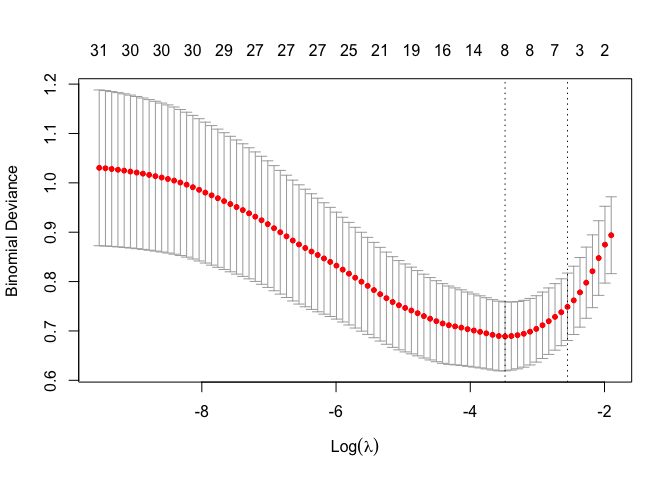
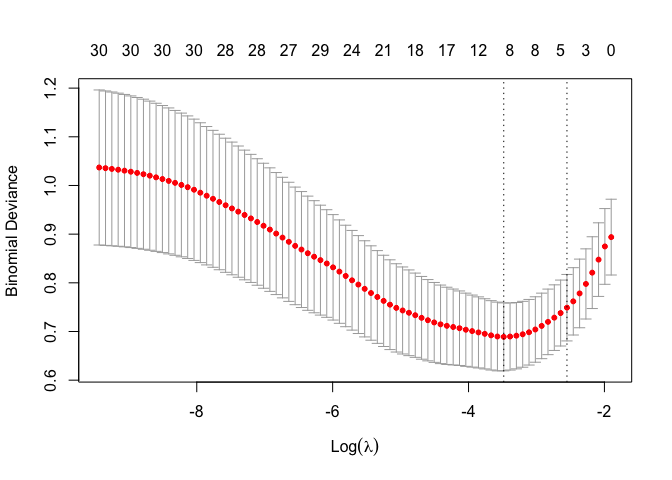
Finalize codes

diff --git a/NSSI_LONGITIDUNAL.md b/NSSI_LONGITIDUNAL.md
@@ -127,7 +127,7 @@ NSSI_LASSO$gs_it.x_b = ifelse(NSSI_LASSO$gs_it.x >= 63, 1, 0)
 NSSI_LASSO$gsi_b = ifelse(NSSI_LASSO$bsi_som_t.x_b + NSSI_LASSO$bsi_dep_t.x_b + NSSI_LASSO$bsi_anx_t.x_b >=2 | NSSI_LASSO$gs_it.x_b == 1, 1, 0)
 
 # final dataset for LASSO analysis
-NSSI_LASSO_final = NSSI_LASSO %>% select(id, self_inj_year.y, d91.x, d96, self_inj_year.x, d97.x, d81.x, d84.x_b, d87.x, d88.x, d89.x_b, fs.x, es.x, tis.x, ti_spride.x, ti_sshame.x, ti_salien.x, ti_spass.x, gend_dysph.x, tcs.x, safety.x, cc.x, soc_sup.x, fam_sup.x, frd_sup.x, sp_sup.x, bsi_som_t.x_b, bsi_dep_t.x_b, bsi_anx_t.x_b, gsi_b, yrs_horm_b, if_surg.x)
+NSSI_LASSO_final = NSSI_LASSO %>% select(self_inj_year.y, d91.x, d96, self_inj_year.x, d97.x, d81.x, d84.x_b, d87.x, d88.x, d89.x, d89.x_b, fs.x, es.x, tis.x, ti_spride.x, ti_sshame.x, ti_salien.x, ti_spass.x, gend_dysph.x, tcs.x, safety.x, cc.x, soc_sup.x, fam_sup.x, frd_sup.x, sp_sup.x, bsi_som_t.x_b, bsi_dep_t.x_b, bsi_anx_t.x_b, gsi_b, yrs_horm_b, if_surg.x)
 ```
 
 ## LASSO preparation
@@ -183,7 +183,6 @@ coef(model)
     ## 32 x 1 sparse Matrix of class "dgCMatrix"
     ##                           s0
     ## (Intercept)     -0.938893858
-    ## id               .          
     ## d91.x            .          
     ## d96              .          
     ## self_inj_year.x  0.620863179
@@ -192,6 +191,7 @@ coef(model)
     ## d84.x_b          0.861224315
     ## d87.x            .          
     ## d88.x            .          
+    ## d89.x            .          
     ## d89.x_b          .          
     ## fs.x             .          
     ## es.x             0.067687259
@@ -255,7 +255,6 @@ coef(cv_lasso, cv_lasso$lambda.min)
     ## 32 x 1 sparse Matrix of class "dgCMatrix"
     ##                            1
     ## (Intercept)     -0.939022076
-    ## id               .          
     ## d91.x            .          
     ## d96              .          
     ## self_inj_year.x  0.620979398
@@ -264,6 +263,7 @@ coef(cv_lasso, cv_lasso$lambda.min)
     ## d84.x_b          0.861200085
     ## d87.x            .          
     ## d88.x            .          
+    ## d89.x            .          
     ## d89.x_b          .          
     ## fs.x             .          
     ## es.x             0.067695893
@@ -295,7 +295,6 @@ coef(cv_lasso, cv_lasso$lambda.1se)
     ## 32 x 1 sparse Matrix of class "dgCMatrix"
     ##                            1
     ## (Intercept)     -0.702959697
-    ## id               .          
     ## d91.x            .          
     ## d96              .          
     ## self_inj_year.x  0.453588935
@@ -304,6 +303,7 @@ coef(cv_lasso, cv_lasso$lambda.1se)
     ## d84.x_b          0.470644795
     ## d87.x            .          
     ## d88.x            .          
+    ## d89.x            .          
     ## d89.x_b          .          
     ## fs.x             .          
     ## es.x             .          
@@ -330,6 +330,68 @@ coef(cv_lasso, cv_lasso$lambda.1se)
 ``` r
 # Setting lambda = lambda.1se produces a simpler model compared to lambda.min, but the model might be a little bit less accurate than the one obtained with lambda.min.
 ```
+
+# Prediction accuracy
+
+## AREA UNDER THE CURVE (AUC)
+
+``` r
+# Using AREA UNDER THE CURVE (AUC) to assess the prediction accuracy 
+# How good is a classifier 
+library(ROCR)
+```
+
+    ## Loading required package: gplots
+
+    ## 
+    ## Attaching package: 'gplots'
+
+    ## The following object is masked from 'package:stats':
+    ## 
+    ##     lowess
+
+``` r
+a = as.data.frame(observed.classes)
+pred = prediction(probabilities, a)
+perf = performance(pred, 'tpr', 'fpr')
+plot_auc = plot(perf)
+```
+
+![](NSSI_LONGITIDUNAL_files/figure-gfm/unnamed-chunk-7-1.png)<!-- -->
+
+``` r
+ggsave("auc.png", plot_auc, dpi = 300)
+```
+
+    ## Saving 7 x 5 in image
+
+``` r
+AUC = performance(pred, 'auc')
+AUC
+```
+
+    ## An object of class "performance"
+    ## Slot "x.name":
+    ## [1] "None"
+    ## 
+    ## Slot "y.name":
+    ## [1] "Area under the ROC curve"
+    ## 
+    ## Slot "alpha.name":
+    ## [1] "none"
+    ## 
+    ## Slot "x.values":
+    ## list()
+    ## 
+    ## Slot "y.values":
+    ## [[1]]
+    ## [1] 0.8461538
+    ## 
+    ## 
+    ## Slot "alpha.values":
+    ## list()
+
+preds = predict(cv\_lasso, newx = x\_test, type = ‘response’)
 
 # Plot correlation
 
@@ -365,7 +427,7 @@ corr_plot_a = ggcorr(NSSI_LASSO_final,
 corr_plot_a
 ```
 
-![](NSSI_LONGITIDUNAL_files/figure-gfm/unnamed-chunk-7-1.png)<!-- -->
+![](NSSI_LONGITIDUNAL_files/figure-gfm/unnamed-chunk-8-1.png)<!-- -->
 
 ``` r
 corr = round(cor(NSSI_LASSO_final), 1)
@@ -383,7 +445,7 @@ corr_plopt_b = ggcorrplot(corr, hc.order = TRUE, type = "lower",
 corr_plopt_b
 ```
 
-![](NSSI_LONGITIDUNAL_files/figure-gfm/unnamed-chunk-7-2.png)<!-- -->
+![](NSSI_LONGITIDUNAL_files/figure-gfm/unnamed-chunk-8-2.png)<!-- -->
 
 ``` r
 ggsave("correlation.png", corr_plopt_b)
@@ -401,14 +463,15 @@ corr_plopt_c = ggcorrplot(corr, p.mat = p, hc.order = TRUE,
     colors = c("#6D9EC1", "white", "#E46726"),
     legend.title = "Correlation",
     title = "Correlation of predictors"
-    ) + labs(caption="X = correlation non-significant at p < 0.05")
+    ) + labs(caption="X = correlation non-significant at p < 0.05") +
+    scale_y_discrete(labels = c("Social Support","Family Support", "Peer Support", "Support from Important Others", "Pride", "Community Connectedness", "Transgender Congruence", "Sense of Safety", "Alienation", "Lifetime Suicide Frequency", "Past Year Suicide Frequency", "Past Year Suicide Attempt", "Somatization", "Anxiety", "Depression", "BSI-GSI", "Lifetime NSSI Frequency", "Past Year NSSI Frequency", "Felt Stigma", "Enacted Stigma", "Lifetime Suicide Ideation", "Lifetime Suicide Attempt", "Lifetime NSSI", "Past Year NSSI", "12-Month NSSI", "Past Year Suicidal Ideation", "Started surgery", "Had Surgery", "Gender Dysphoria",  "Investment in Passing", "Internalized Transphobia")) +
+    scale_x_discrete(labels = c("Family Support", "Peer Support", "Support from Important Others", "Pride", "Community Connectedness", "Transgender Congruence", "Sense of Safety", "Alienation", "Lifetime Suicide Frequency", "Past Year Suicide Frequency", "Past Year Suicide Attempt", "Somatization", "Anxiety", "Depression", "BSI-GSI", "Lifetime NSSI Frequency", "Past Year NSSI Frequency", "Felt Stigma", "Enacted Stigma", "Lifetime Suicide Ideation", "Lifetime Suicide Attempt", "Lifetime NSSI", "Past Year NSSI", "12-Month NSSI", "Past Year Suicidal Ideation", "Started surgery", "Had Surgery", "Gender Dysphoria",  "Investment in Passing", "Internalized Transphobia", "Shame"))
+
 corr_plopt_c   
 ```
 
-![](NSSI_LONGITIDUNAL_files/figure-gfm/unnamed-chunk-7-3.png)<!-- -->
+![](NSSI_LONGITIDUNAL_files/figure-gfm/unnamed-chunk-8-3.png)<!-- -->
 
 ``` r
-ggsave("correlation_c.png", corr_plopt_c, dpi = 300)
+ggsave("correlation_d.png", corr_plopt_c, width = 25, height = 25, units = "cm", dpi = 300)
 ```
-
-    ## Saving 7 x 5 in image
